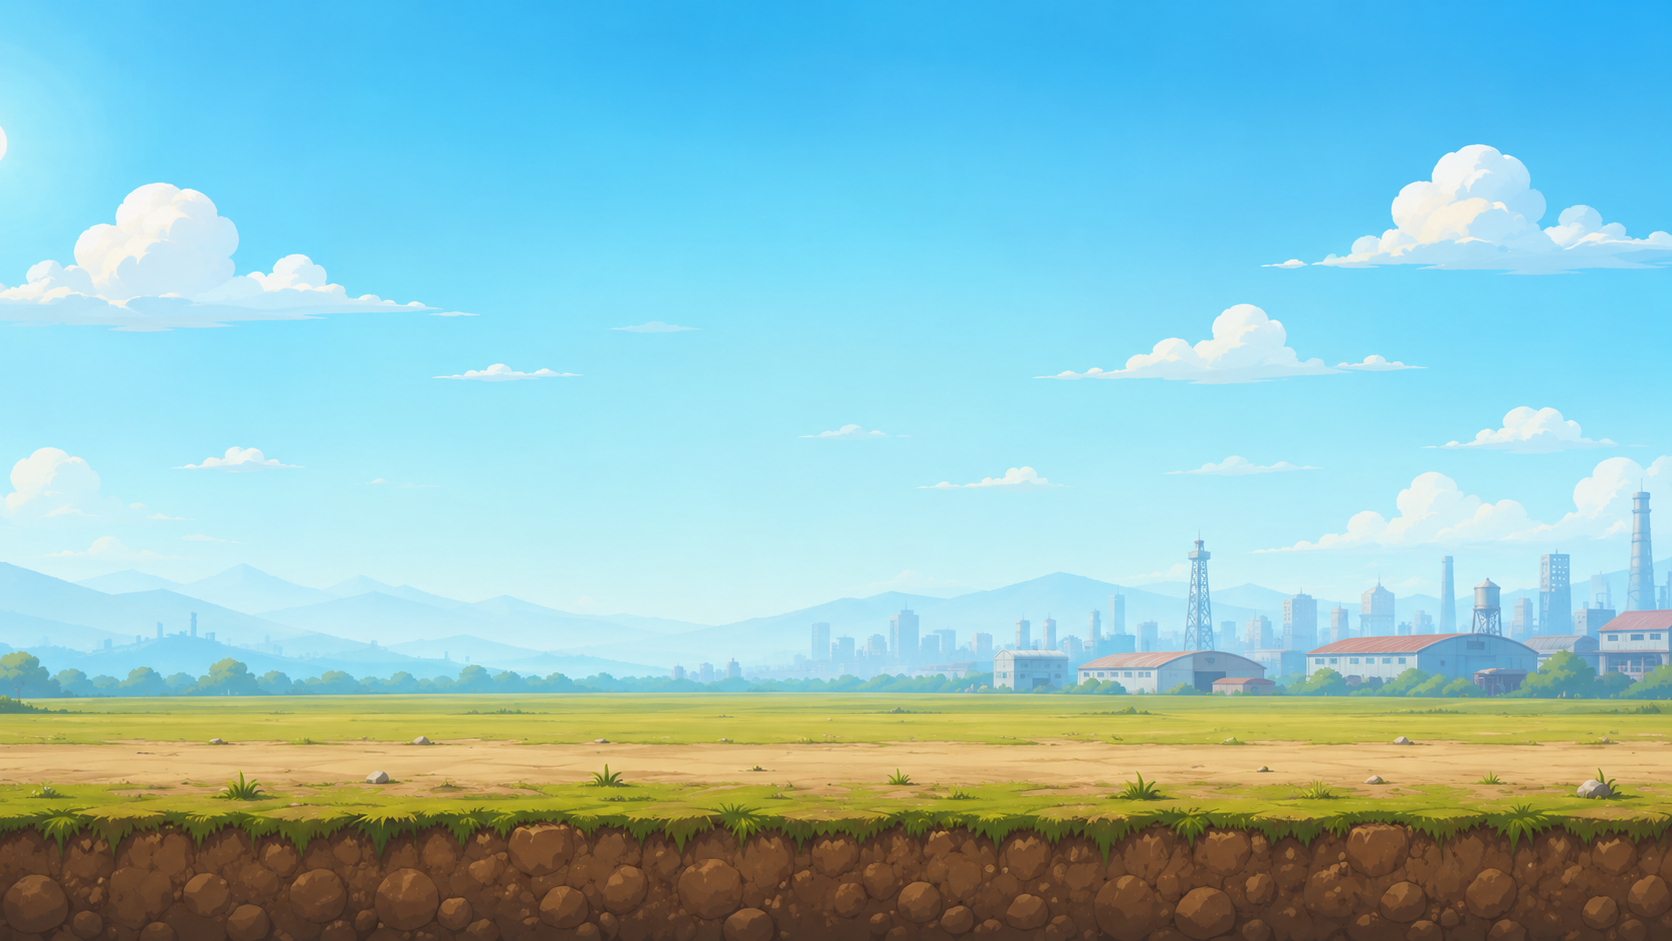
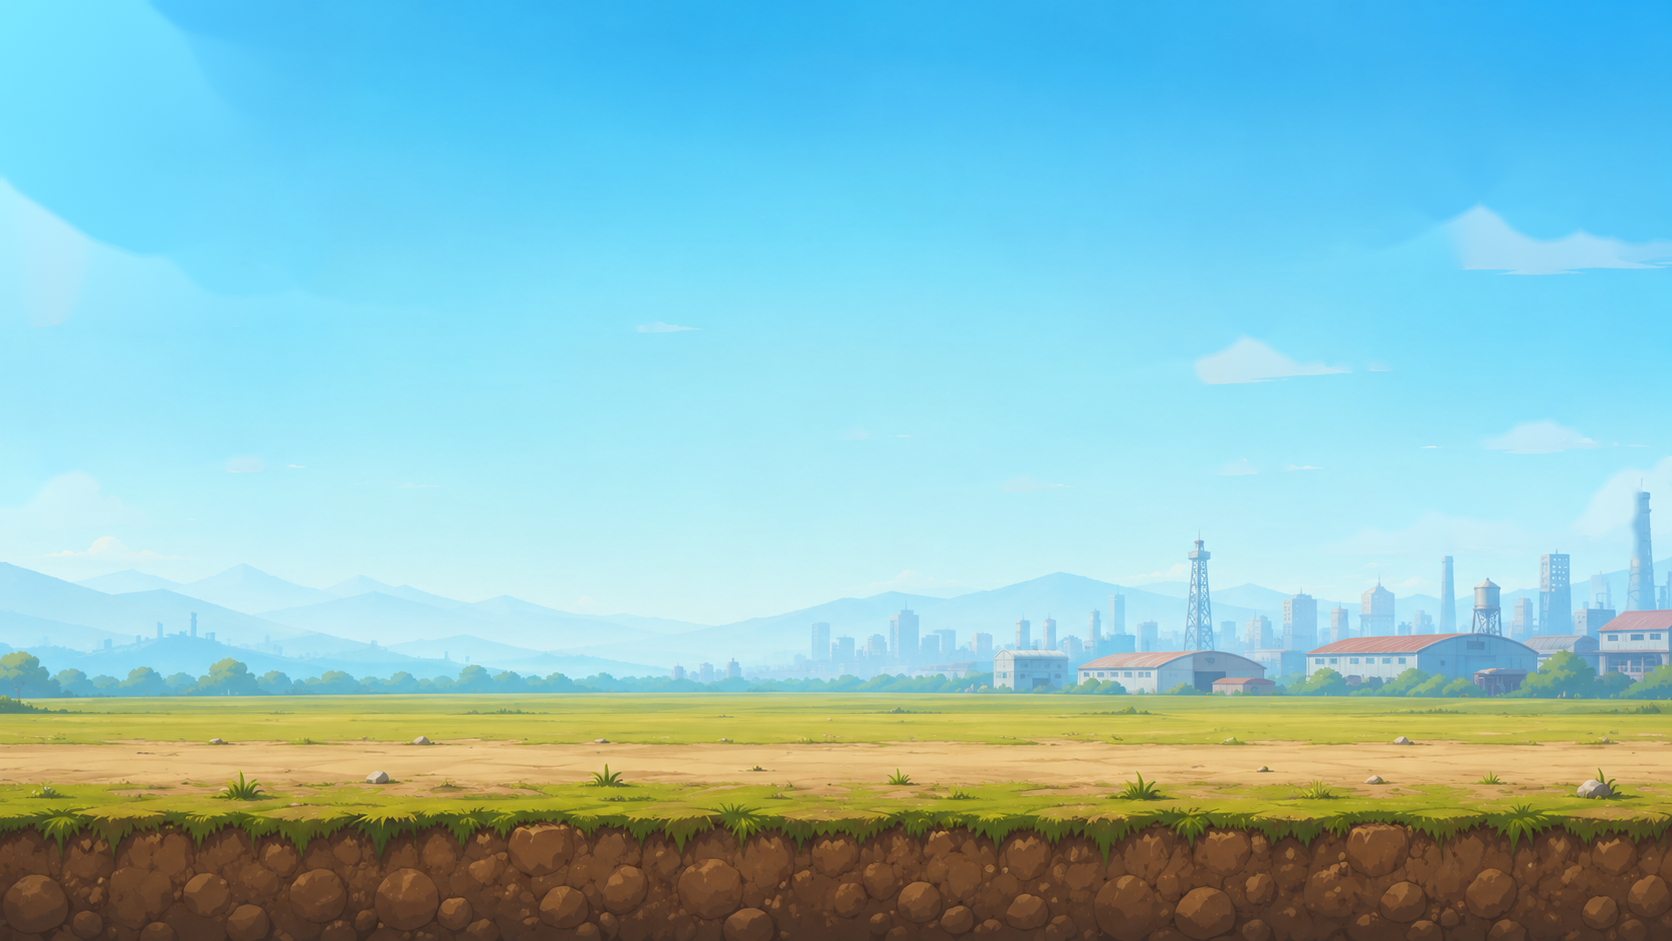
Add dynamic sky clouds for enhanced background visuals

diff --git a/index.html b/index.html
@@ -1522,6 +1522,36 @@ function drawBG(){
   ctx.drawImage(BGL.world, cam,0,W,H, 0,0,W,H);
 }
 
+/* ---------- in-flight sky clouds — the background plates are painted
+   clean of clouds; every cloud on screen is this code-drawn, drifting
+   layer instead, tiled seamlessly so a handful of clouds cover a world
+   of any length. Parallax (<1) makes them glide slower than the ground,
+   reading as the farthest layer; the wind drift keeps them alive even
+   while the camera holds still (aiming). ---------- */
+const SKY_CLOUD_SPAN = 1400, SKY_CLOUD_PARALLAX = .45;
+const SKY_CLOUDS = Array.from({length:9}, (_,i)=>({
+  baseX: (i+.5)/9*SKY_CLOUD_SPAN + (Math.random()-.5)*110,
+  y: 55 + Math.random()*185,
+  s: .32 + Math.random()*.34,
+  a: .22 + Math.random()*.24,
+  phase: Math.random()*Math.PI*2,
+  bobAmp: 3 + Math.random()*4,
+  bobSpeed: .3 + Math.random()*.3,
+  wind: 5 + Math.random()*9
+}));
+function drawSkyClouds(){
+  SKY_CLOUDS.forEach(c=>{
+    const driftedX = c.baseX + G.time*c.wind;
+    let sx = (driftedX - G.cameraX*SKY_CLOUD_PARALLAX) % SKY_CLOUD_SPAN;
+    if(sx<0) sx += SKY_CLOUD_SPAN;
+    const y = c.y + Math.sin(G.time*c.bobSpeed + c.phase)*c.bobAmp;
+    for(const off of [-SKY_CLOUD_SPAN,0,SKY_CLOUD_SPAN]){
+      const x = sx+off;
+      if(x>-90 && x<W+90) drawCodeCloud(x,y,c.s,c.a);
+    }
+  });
+}
+
 const TITLE_CLOUDS = [
   {x:58,y:108,s:.45,a:.42,phase:0,drift:.42,amp:22,bob:4},
   {x:260,y:92,s:.36,a:.35,phase:1.4,drift:.36,amp:18,bob:3},
@@ -1863,6 +1893,7 @@ function render(){
   ctx.save();
   if(G.shake>0) ctx.translate((Math.random()-.5)*G.shake,(Math.random()-.5)*G.shake);
   drawBG();
+  drawSkyClouds();
   nodes.forEach(node=>drawTower(node.tower));
   nodes.forEach(node=>drawZombie(node.zombie));
   drawTank();
